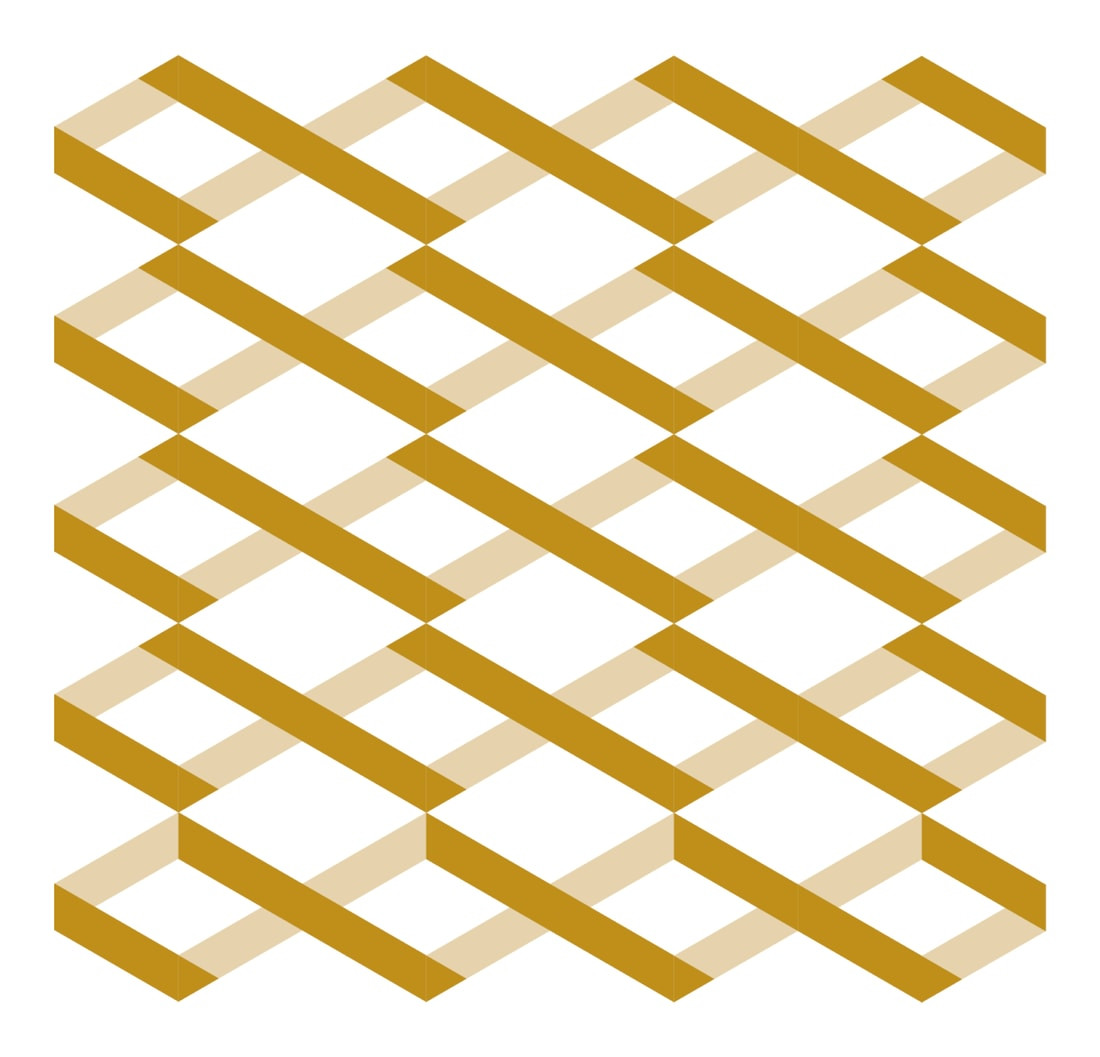
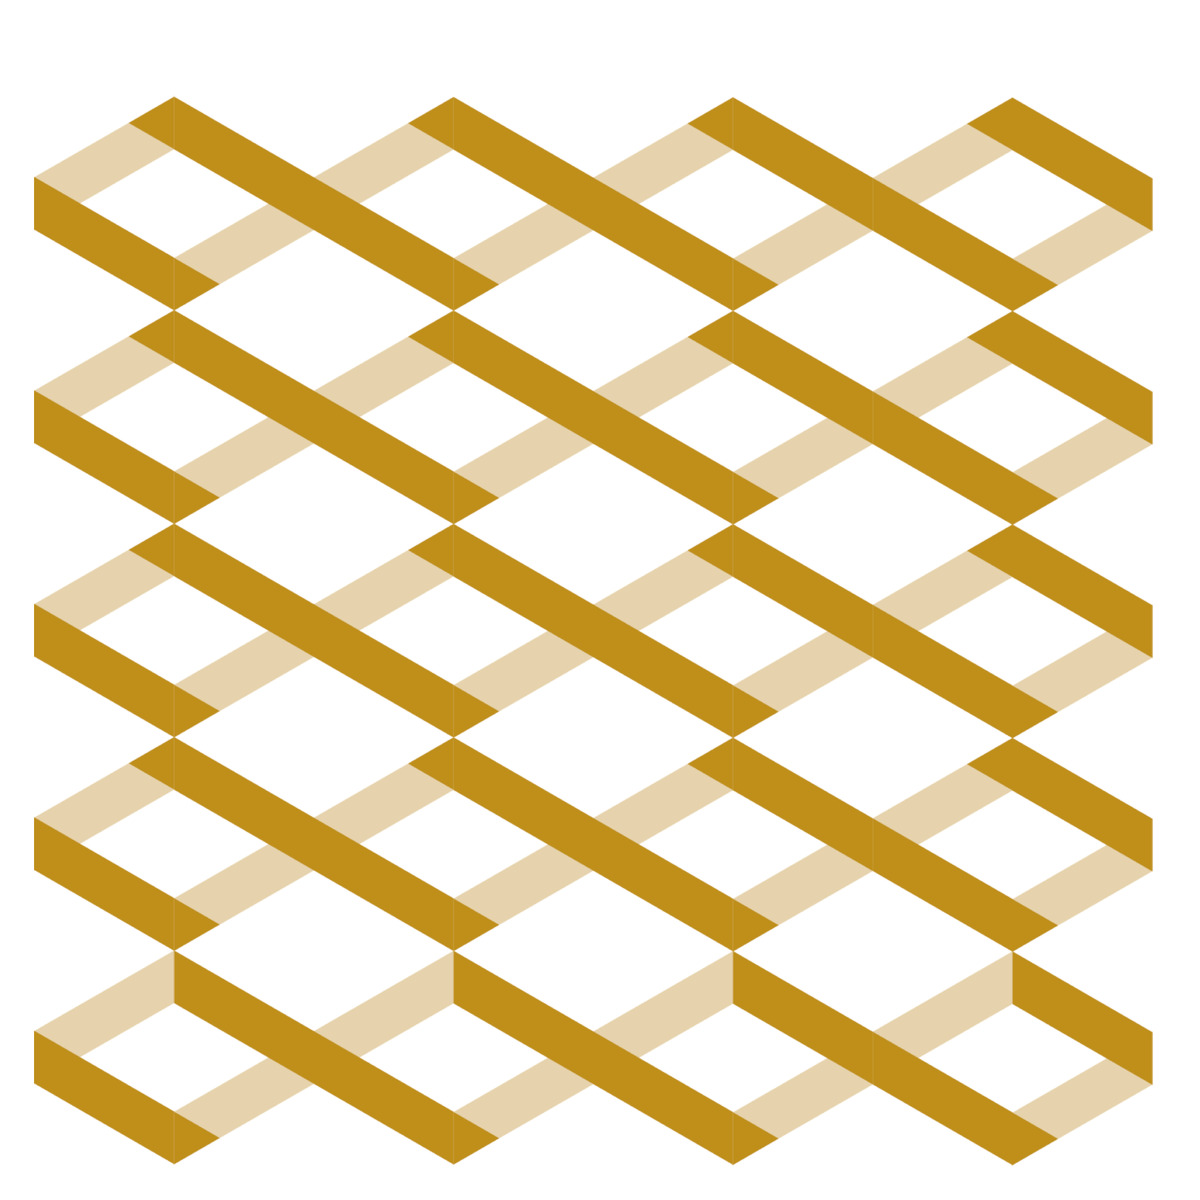
Split NUO2's lockup sheet, align Zenith's patterns, reset its cover
The lockup sheet was not clipped. I claimed it was, from an edge-ink
metric that counts how much of a border is inked, and that metric gives
a false positive on geometric artwork: flat stroke ends cropped tight
sit right on the canvas edge while nothing is missing. Checked row three
against Asset 8@1.5x, which carries 54px of padding and so is known
complete — the ratios differ by 0.002. I had already replaced the
logotype on the same bad reading; that is reverted, and the original
1344px file is back.

What is actually wrong with the sheet is alignment. Its three rows stop
at 84%, 98% and 100% of the canvas width with nothing lining up, so it
reads as a bad crop. Each row is now its own file, trimmed on an alpha
threshold because sharp's trim leaves the 1-40 alpha fringe, and sized
to a common type height — equal width would flatten the 3.8 row to a
line. The lead row caps at 80% because at 1595px it cannot fill a
wider slot.

The four Zenith pattern swatches were cropped one at a time and came out
at four ratios (1.086/1.048/0.973/1.041), which is why they sat at
different heights. Manual pages 26-29 share one layout, so one shared
square now crops all four: the union of their four ink boxes, squared,
plus 6%. All four are 1200x1200.

Zenith's cover is the curled anniversary sheet, from a 6000x4500 source
that is already exactly the card's 4:3 — no crop at all.

The culture wall is out. Eight values banners are internal culture
[…]

diff --git a/src/content/projects/nuo2/index.md b/src/content/projects/nuo2/index.md
@@ -84,12 +84,35 @@ on a bottle neck and soft enough to still feel hand-made.
 Three approved lockups, and the only three. Everything else on the bottle, the
 bag and the cup sleeve is built from these.
 
-<!-- 组合图放在纸上单独一行，76% 宽 —— 1900px 的原图够这个槽位用。
-     它和字标不是同一类东西：字标是单件，这张是一整页规范，有三行内容。 -->
+<!-- 三个组合各自一张，不再用那张三行拼在一起的 a-lockups.png。
+     那张不是被切，是三行各自停在不同位置 —— 量出来第一行的墨到
+     画布 84%，第二行 98%，第三行 100%，左右都不对齐，
+     整张读起来就像裁坏了。
+     （我先前用「边缘带墨比例」判它被切，是假阳性：几何构形的笔画
+       末端本来就是平的，紧裁后自然贴边。拿确定完整的 Asset 8 对过
+       第三行，比例差 0.002，一笔没少。字标也被我误判过，已还原。）
 
-<div class="chip" style="--w: 76%">
+     拆开之后每行各自去透明边、各自定宽，就都是有意为之的规范图。
 
-![Three approved lockups](./a-lockups.png)
+     按等高排，不按等宽：组合的可比量是字高，等宽会让 3.8 比例的
+     那行矮成一条线。基准 80% 而不是更宽 —— 最宽那行只有 1595px，
+     88% 的槽位要 1746，会放大。 -->
+
+<div class="chip" style="--w: 80%">
+
+![Lockup one: logotype beside the mark](./a-lockup-1.png)
+
+</div>
+
+<div class="chip" style="--w: 73%">
+
+![Lockup two: the mark filled with the illustration](./a-lockup-2.png)
+
+</div>
+
+<div class="chip" style="--w: 75%">
+
+![Lockup three: the mark with the bilingual name](./a-lockup-3.png)
 
 </div>
 

diff --git a/src/content/projects/zenith/index.md b/src/content/projects/zenith/index.md
@@ -21,6 +21,8 @@ gallery:
   - image: ./hero-01.jpg
     alt: The Zenith mark lit on the reception wall
 
+# 封面是卷起的周年海报。原图 6000x4500 正好是 4:3，
+# 而卡片就是 aspect-ratio: 4/3 配 object-fit: cover —— 一个像素都没裁。
 cover: ./card.jpg
 draft: false
 ---
@@ -298,11 +300,10 @@ folders, cups, tape, and a tote. Produced, handed out, and still in the office.
 
 Then the same system at building scale.
 
-<div class="bleed">
-
-![The culture wall](./e-culture-wall.jpg)
-
-</div>
+<!-- 企业文化展板（八块价值观立牌：勤勉敬业、廉洁自律……）去掉了。
+     两个理由：它是内部文化宣传物，不是这套识别最有说服力的应用；
+     而且上面那句写的是 building scale，八块立牌撑不起这句话 ——
+     楼梯和楼体才是。 -->
 
 <div class="bleed">
 
